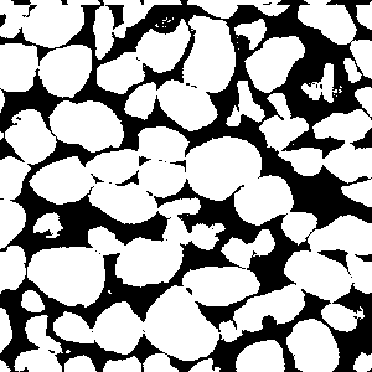
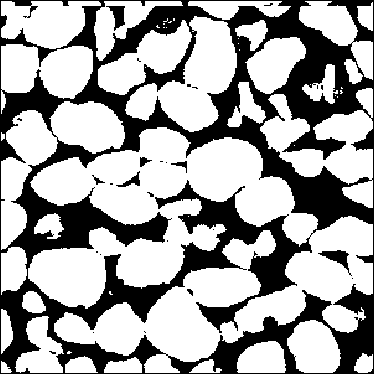
changes

diff --git a/CoreSamples/PixelCount.py b/CoreSamples/PixelCount.py
@@ -1,9 +1,8 @@
 import os
-from PIL import Image
+from PIL import Image, ImageOps
 from collections import defaultdict
 import numpy
 
-print("LMAO")
 img = Image.open('CroppedImage.png')
 pixels = img.load()
 s = img.size
@@ -28,4 +27,6 @@ for i in range(img.size[0]):
 			pixels[i,j] = (255,255,255,255)
 print(counter_1, counter_2)
 img.show()
-img.save("FinalImage.png")
+newimg = ImageOps.expand(img, border=1, fill='black') 
+newimg.show()
+newimg.save("FinalImage.png")

diff --git a/HeleCode.py b/HeleCode.py
@@ -7,7 +7,7 @@ import sys
 
 #Set File
 user = 'adria'
-user = 'Adriann Liceralde'
+#user = 'Adriann Liceralde'
 file = 'F42A.dat' 
 os.chdir('C:\\Users\\'+str(user)+'\\Desktop\\Repository\\HeleShaw\\CoreSamples')
 isize = 300 #Do Not Change from 300
